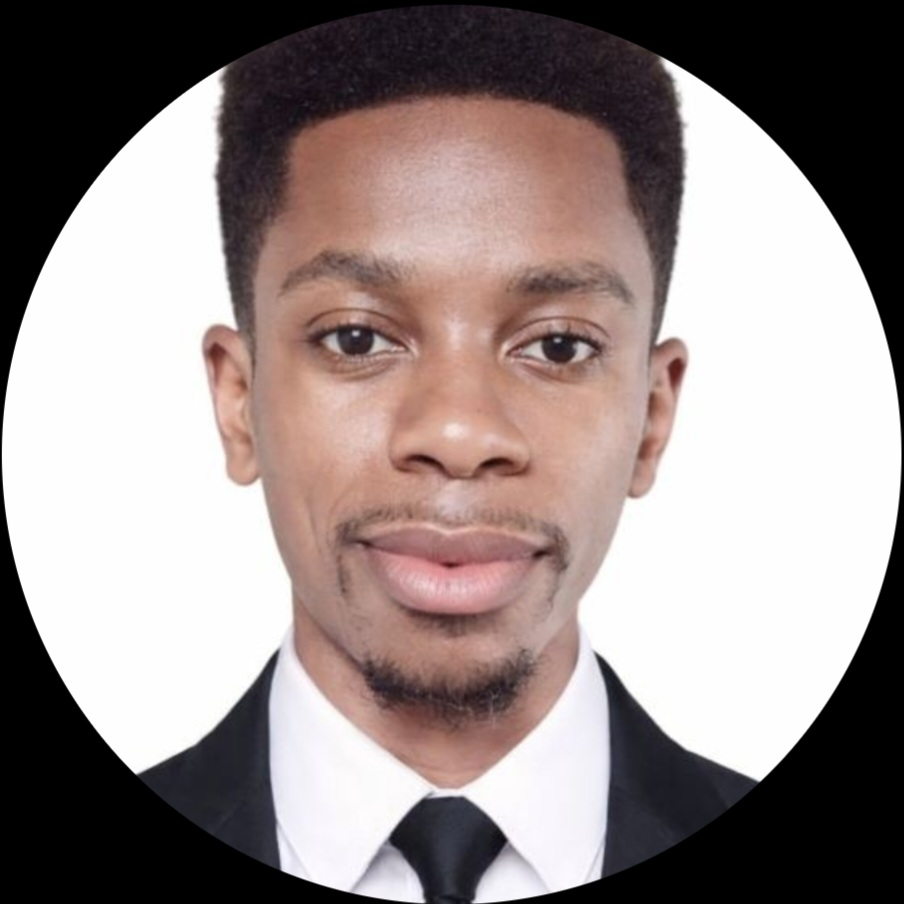
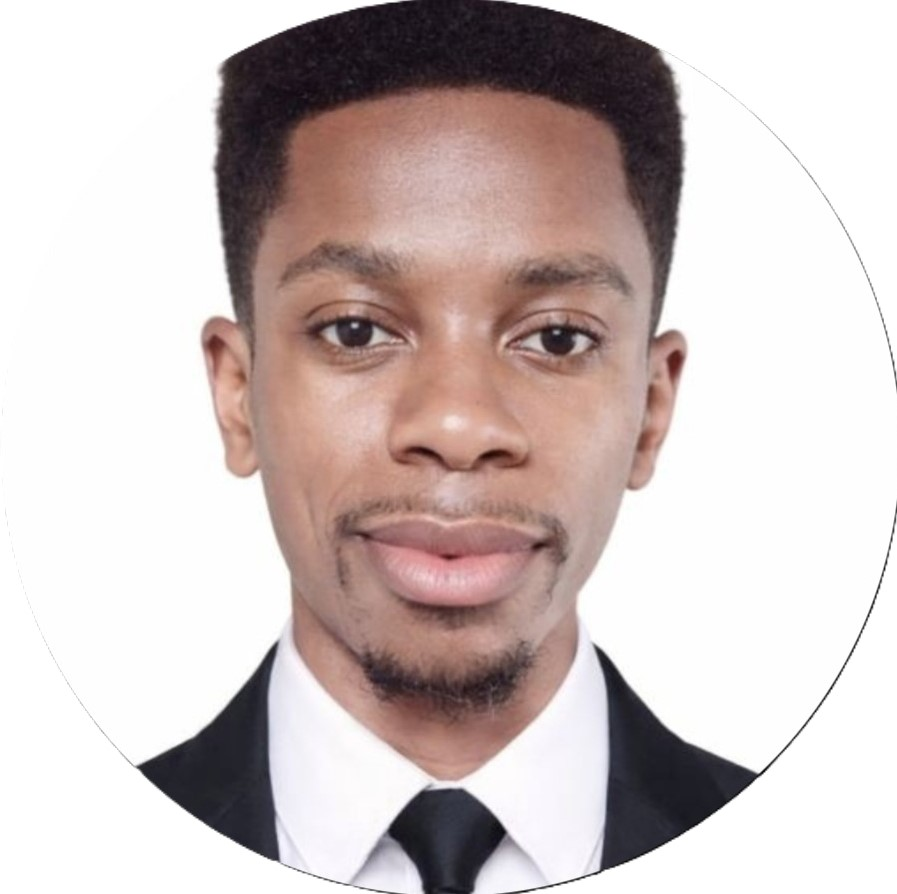
atualizar o index.html

diff --git a/index.html b/index.html
@@ -157,7 +157,7 @@
                     <button-- class=" banner-btn banner-acssoes-btn2">Obter orçamento</button-->
 
                     <a href="#servicos" class="banner-btn banner-acssoes-btn1">Explorar soluções<span>▶</span></a>
-                    <a href="perfil.html" class="banner-btn banner-acssoes-btn2">Obter orçamento</a>
+                    <a href="perfil.html" class="banner-btn banner-acssoes-btn2">Ver Cursos</a>
                 </span>
             </div>
             <div class="banner-image-side">
@@ -674,7 +674,7 @@
                 </div>
             </div>
         </!--section-->
-        <section class=" section section-totais">
+        <!--section class=" section section-totais">
             <div class="div-total">
                 <span>
                     <svg xmlns="http://www.w3.org/2000/svg" width="24" height="24" viewBox="0 0 24 24" fill="none"
@@ -746,6 +746,9 @@
                 <Strong>N</Strong>
                 <small>Soluções de sucesso</small>
             </div>
+        </section-->
+
+        <section class="section section-cursos-cts">
         </section>
 
         <!--div class="div-tittle div-tittle-testemunhas">
@@ -1209,7 +1212,7 @@
                 </!--div-->
                 <div class="testimony-item">
                     <div class="testimony-item-head">
-                        <img src="./assets/icons/user.png" alt="Vemba">
+                        <img src="./assets/images/persons/person1.webp" alt="Vemba">
                         <!--span-- style="display: flex; justify-content: center; flex-direction: column;">
                             <p class="testimony-item-body-tittle">Joy Vemba</p>
                             <small>Engenheiro Eletrónico</small>
@@ -1243,7 +1246,7 @@
                 </div>
                 <div class="testimony-item">
                     <div class="testimony-item-head">
-                        <img src="./assets/icons/user.png" alt="Fayenda">
+                        <img src="./assets/images/persons/person2.jpg" alt="Fayenda">
                         <!--span-- style="display: flex; justify-content: center; flex-direction: column;">
                             <p class="testimony-item-body-tittle">António Fayenda</p>
                             <small>Engenheiro informático</small>
@@ -1276,7 +1279,7 @@
                 </div>
                 <div class="testimony-item">
                     <div class="testimony-item-head">
-                        <img src="./assets/icons/user.png" alt="Caxiombo">
+                        <img src="./assets/images/persons/person3.jpg" alt="Caxiombo">
                         <!--span-- style="display: flex; justify-content: center; flex-direction: column;">
                             <p class="testimony-item-body-tittle">Eugênio Cach.</p>
                             <small>Engenheiro informático</small>

diff --git a/style/index.css b/style/index.css
@@ -176,13 +176,11 @@ html {
   --complementar19: #1a1100;
   --complementar20: #000000;
 
-
-
-  --jwwtBlue1:'#3e6ba3';
-  --jwwtBlue2:'#4e7fbc';
-  --jwwtBlue3:'#6b94c7';
-  --jwwtBlueTxt1:'#4477a1';
-  --jwwtBlueTxt2:'#2878bb';
+  --jwwtBlue1: "#3e6ba3";
+  --jwwtBlue2: "#4e7fbc";
+  --jwwtBlue3: "#6b94c7";
+  --jwwtBlueTxt1: "#4477a1";
+  --jwwtBlueTxt2: "#2878bb";
 }
 body {
   margin: 0px;
@@ -1964,10 +1962,19 @@ header {
 
 .section-testimony .testimony-set .testimony-item .testimony-item-head {
   display: flex;
+  height: 100px;
+  width: 100px;
+  align-items: center;
+  justify-content: center;
+  border-radius: 50%;
+  box-sizing: border-box;
+  object-fit: cover;
+  overflow: hidden;
 }
 .section-testimony .testimony-set .testimony-item .testimony-item-head img {
-  max-width: 90px;
-  max-height: 90px;
+  max-width: 60px;
+  max-height: 60px;
+  border-radius: 50%;
 }
 .section-testimony .testimony-set .testimony-item .testimony-item-body {
   padding-left: 10px;
@@ -2158,6 +2165,11 @@ header {
     right: -25px;
     top: -25px;
   }
+}
+/*SECTION-CURSOS CTA*/
+.section-cursos-cts {
+  background-color: var(--mainBlue14);
+  height: 500px;
 }
 /*SECTION ABOUT*/
 .section-about {
